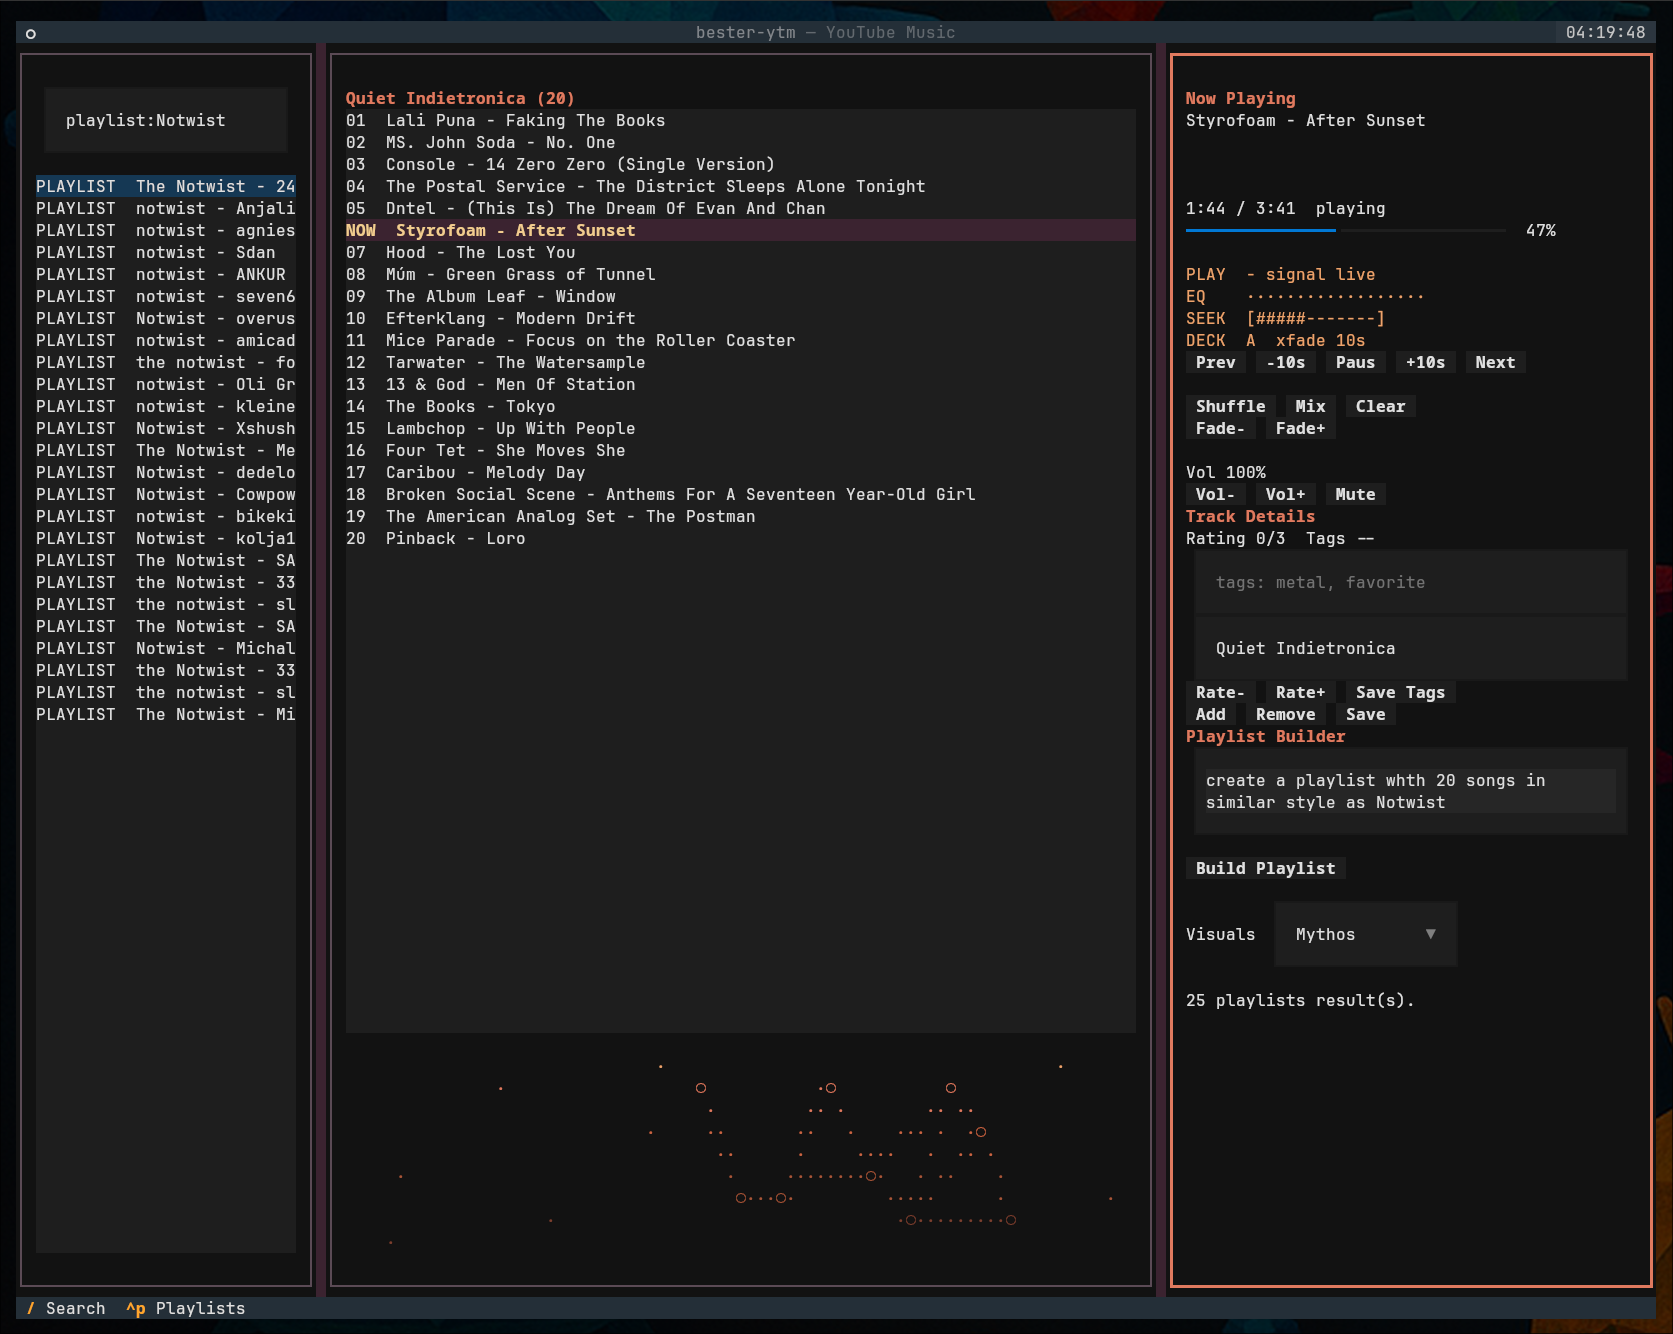
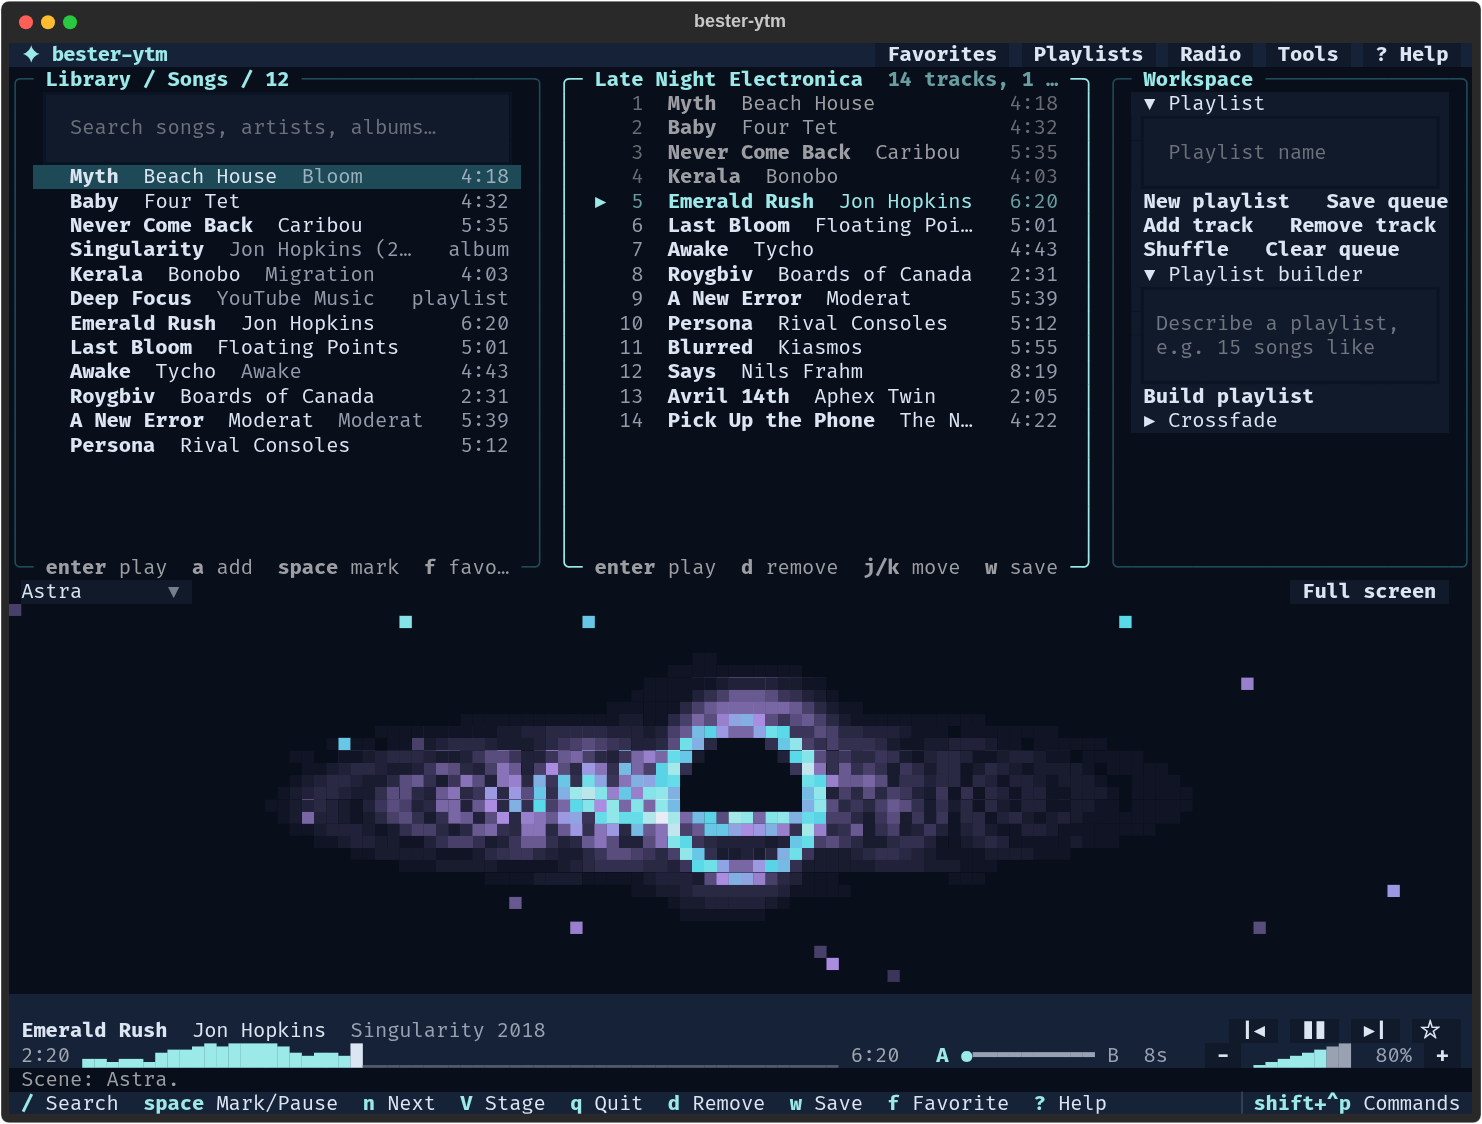
docs: describe the new stage, player deck, and rows
Update usage, configuration, the manual test checklist, README, and the
docs landing page for the four stage scenes, the loudness seek bar, the
crossfader, star and mark glyphs, border hints, and the renamed workspace
buttons. Add an Unreleased changelog section.

The README demo GIF and the docs screenshot are rendered from the app at
120x44 with a song-like loudness signal (880 px wide, 90 frames, 1.9 MB,
down from 3.3 MB).

diff --git a/docs/usage.md b/docs/usage.md
@@ -4,7 +4,8 @@
 
 Launch with `bester-ytm`. Search and browse on the left, arrange the queue
 in the center, and use the workspace on the right for playlists, the builder,
-and DJ controls. The playback bar sits below the full-width visual stage.
+and crossfade settings. The stage fills the width below the panes, and the
+player sits under it. Each pane's border shows its name and its main keys.
 On narrow terminals, `F2` or **Tools** switches between the queue and workspace.
 The top bar opens Favorites, Playlists, Radio, and Help.
 
@@ -17,7 +18,8 @@ it and returns to the previous view.
 Pane-scoped keys act only while their pane has focus: `x`, `Shift+Space`,
 `a`, `A`, and `Enter`-on-results need the results pane; `j`/`k`, `c`, and
 `w` need the queue pane; `s`, `d`, `Space`-as-select, and `Enter`-on-queue
-work from either list pane. The footer always shows which keys are live.
+work from either list pane. The footer shows the main keys for the focused
+pane; the keyboard guide lists every key.
 
 ```text
 /          focus search
@@ -47,15 +49,15 @@ g          add 5 AI-suggested similar tracks to the queue; type digits
 i          build a playlist from the builder prompt (right pane)
 t          toggle transition style (cut / crossfade)
 [ / ]      shorten / lengthen the crossfade (1-15s)
-v          cycle the visualizer (Astra, Mythos, Oracle, Bars, Wave, Pulse, Scope)
-V          expand/restore the visual stage (Shift+v); Esc returns
+v          next stage scene (Astra, Pulsar, Bars, Scope)
+V          full-screen stage (Shift+v; clicking the stage does the same); Esc returns
 F2         open the workspace tools on a narrow terminal
 Left/Right seek -10s/+10s
 ,/.        seek -30s/+30s
 - / = / +  volume down / up (both = and + raise it)
 m          mute/unmute
 f          toggle the focused song's local favorite; otherwise the playing song
-           [fav] marks saved songs; radio favorites resolve the live song
+           ★ marks saved songs; radio favorites resolve the live song
 Ctrl+F     browse favorites (also the Favorites button)
 Ctrl+P     show playlists (local first, then your YouTube library)
 Ctrl+A     show auth status
@@ -126,29 +128,49 @@ rest.
 
 ### Playback and transitions
 
-The current track is marked `NOW`. When a track nears its end and the
-transition style is crossfade (the default, 6 seconds), the next queued
-track is prebuffered on a second silent mpv deck and blended in DJ-style
-with an equal-power fade; set the transition to cut for instant switches.
-The `DECK` line beside the transport shows the active deck and becomes a
-`MIX` meter while two tracks blend. The stage displays an audio-reactive
-scene. Astra draws an accretion disk, photon ring, aurora, and starfield in
-cyan, violet, and gold. It responds to loudness from mpv, not frequency bands.
-During silence, the visual energy fades. Pausing freezes the scene.
+The playing track carries `▶` in the queue, and tracks already played are
+dimmed. When a track nears its end and the transition style is crossfade
+(the default, 6 seconds), the next queued track is prebuffered on a second
+silent mpv deck and blended in DJ-style with an equal-power fade; set the
+transition to cut for instant switches. The crossfader in the player
+(`A ━━━━●━━━━ B`) shows the live deck, and its knob slides to the other
+deck while two tracks blend. A dotted rail means the transition is cut.
 
-Choose an effect from the stage dropdown or press `v`. Press `V` (Shift+v)
-for the immersive stage and `Esc` to return. Playback controls remain visible.
-Open the command palette with `Ctrl+Shift+P` to choose a theme. Clicking the progress bar seeks to that position.
-On slow or remote terminals, lower `ui.visual_fps` or set it to `0` for
-static frames.
+The seek bar draws how loud each stretch of the current track was when it
+played, so the played part shows the shape of the song. Stretches skipped
+by seeking stay flat. Click the bar to seek to that position. A web radio
+stream has no end, so the bar shows its recent loudness instead.
+
+The stage shows an audio-reactive scene in the colors of the active theme:
+
+- **Astra**: a black hole whose accretion disk heats up and spins faster
+  with the music; sudden onsets flare the photon ring.
+- **Pulsar**: a ridgeline plot of recent loudness, drawn like the pulsar
+  plot on the cover of Joy Division's *Unknown Pleasures*. The front ridge
+  moves live; older ridges recede.
+- **Bars**: a loudness skyline with the newest sample on the right.
+- **Scope**: a Lissajous figure on a phosphor screen that swells with
+  loudness and leaves fading trails.
+
+The scenes react to the loudness that mpv reports; they have no frequency
+data. Pausing freezes the scene; with nothing playing, the stage shows a dim
+still.
+
+Choose a scene from the stage dropdown or press `v`. Press `V` (Shift+v) or
+click the stage for full screen, and press `Esc` or click again to return.
+The player stays visible. Open the command palette with `Ctrl+Shift+P` to
+choose a theme; the stage takes its colors from it.
+On slow or remote terminals, lower `ui.visual_fps`, or set it to `0` for
+still frames. At `0` the seek bar shows progress without the loudness shape.
 
 ### Favorites
 
 Press `f` to toggle the highlighted song in results, an expanded album, or
-the queue. Outside those lists, it acts on the playing track. The
-**Favorite playing** button always acts on the current track.
+the queue. Outside those lists, it acts on the playing track. The star
+button in the player always acts on the current track.
 
-Saved tracks show `[fav]` in results, the queue, and Now Playing. Open
+Saved tracks show `★` in results, the queue, and album trees, and the
+player's star fills while a saved track plays. Open
 **Favorites** or press `Ctrl+F` to browse them. `Enter` plays or queues a
 song; `a` queues it; `f` removes it. Removal keeps the cursor on a remaining
 row. Edit the search to `favs:sepultura` to filter by text. `favorites:` and
@@ -210,24 +232,26 @@ absolute path).
 Local playlists are independent of YouTube playlists — useful for collecting
 tracks before creating a real YouTube playlist.
 
-The right-pane `Playlist / Queue` section manages the queue as a named
-playlist. It holds the playlist name field, the New / Save / Add / Remove
-buttons, and the Shuffle / Clear controls (the Mix and Fade- / Fade+
-transition controls are inside the DJ / Crossfade section):
+The workspace's **Playlist** section manages the queue as a named playlist.
+It holds the playlist name field, the **New playlist**, **Save queue**,
+**Add track**, and **Remove track** buttons, and **Shuffle** and
+**Clear queue**. The **Mix style** and **Fade −** / **Fade +** controls are
+in the **Crossfade** section.
 
-- `New` starts a fresh playlist: the queue is cleared (a playing track keeps
-  playing and stays as the first row), the loaded playlist is detached, and
-  the name field is emptied and focused so you can name the new one.
-- `Save` (also `w`) saves the queue exactly as a local playlist under the
-  typed name — falling back to the loaded playlist's title, then
-  `Saved Queue` — so removals and reordering done with `d`/`j`/`k` persist.
-- `Add` adds the selected track — the highlighted queue row, else the
-  highlighted search song, else the playing track — to the local playlist
-  named in the field; without a name it uses the loaded local playlist, or
-  creates `TUI Playlist`.
-- `Remove` removes the selected track (same resolution as `Add`) from the
-  loaded playlist: local playlists are edited on disk, YouTube playlists in
-  your account.
+- **New playlist** starts a fresh playlist: the queue is cleared (a playing
+  track keeps playing and stays as the first row), the loaded playlist is
+  detached, and the name field is emptied and focused so you can name the
+  new one.
+- **Save queue** (also `w`) saves the queue exactly as a local playlist
+  under the typed name, falling back to the loaded playlist's title, then
+  `Saved Queue`, so removals and reordering done with `d`/`j`/`k` persist.
+- **Add track** adds the selected track (the highlighted queue row, else
+  the highlighted search song, else the playing track) to the local
+  playlist named in the field; without a name it uses the loaded local
+  playlist, or creates `TUI Playlist`.
+- **Remove track** removes the selected track (chosen the same way as for
+  **Add track**) from the loaded playlist: local playlists are edited on
+  disk, YouTube playlists in your account.
 
 ## The CLI
 

diff --git a/docs/manual-testing.md b/docs/manual-testing.md
@@ -26,7 +26,9 @@ tests intentionally do not perform.
 ## Playback
 
 - [ ] `uv run bester-ytm play search "Beach House Myth" --seconds 20` starts `mpv`, plays audio, and exits cleanly.
-- [ ] `uv run bester-ytm` opens the player TUI; search, queue, play/pause, skip, favorite toggle (f, [fav] marker, Ctrl+F listing), auth status, and playlist builder views respond to the documented keys.
+- [ ] `uv run bester-ytm` opens the player TUI; search, queue, play/pause, skip, favorite toggle (f, ★ marker, Ctrl+F listing), auth status, and playlist builder views respond to the documented keys.
+- [ ] While a song plays, the seek bar fills with its loudness shape up to the
+      playhead; seeking ahead leaves a flat stretch; clicking the bar seeks.
 - [ ] After `./scripts/download-example-songs.sh`, searching
       `local:examples/music` lists the three example songs, `Enter` plays one
       audibly, and crossfade transitions work between local and YouTube
@@ -38,28 +40,30 @@ tests intentionally do not perform.
 
 - [ ] `F1` opens help while typing; filtering by `favorite` finds favorite keys;
       `F1` closes help and restores input focus.
-- [ ] `V` expands Astra while music plays; `Ctrl+Space` pauses it;
-      resizing preserves the scene; `Esc` restores the workspace.
+- [ ] `V` (or a click on the stage) shows it full screen while music plays;
+      `Ctrl+Space` pauses it; resizing redraws the scene; `Esc` restores the
+      workspace. `v` cycles Astra, Pulsar, Bars, and Scope, and a theme change
+      from `Ctrl+Shift+P` recolors the stage.
 - [ ] At 80x24, `F2` switches to tools; transport and help remain reachable.
 - [ ] Remove a row in Favorites with `f`; the row disappears and the cursor
-      stays in the list. Click Favorite playing and check that it saves the
+      stays in the list. Click the player's star and check that it saves the
       playing song, even when a different row is highlighted.
 
 ## DJ transitions
 
 - [ ] With two or more tracks queued and crossfade active, the second track
-      audibly blends in before the first ends (no silence gap), and the DECK
-      line becomes a `MIX A [######------] B` meter during the blend.
+      audibly blends in before the first ends (no silence gap), and the
+      crossfader knob slides from one deck to the other during the blend.
 - [ ] Pressing `n` during crossfade mode performs a quick audible mix instead
       of a hard cut.
 - [ ] Pressing `t` switches to cut; track changes become instant hard
-      switches and the DECK line shows `cut`.
+      switches and the crossfader shows a dotted rail and `cut`.
 - [ ] `[` and `]` change the fade length, the status line confirms it, and
       the new value appears in `~/.config/bester-ytm/config.toml` and in
       `uv run bester-ytm config show`.
 - [ ] `uv run bester-ytm play playlist <id> --transition crossfade --fade 8`
       blends between tracks from the CLI.
-- [ ] Quit the TUI mid-mix (`q` while the MIX meter is visible), then run
+- [ ] Quit the TUI mid-mix (`q` while the crossfader knob is between A and B), then run
       `pgrep -a mpv`: no orphaned mpv processes remain and no
       `bester-ytm-mpv-*.sock` files are left in the temp directory.
 - [ ] Pause during a mix snaps cleanly to the incoming track; resume plays at

diff --git a/README.md b/README.md
@@ -13,19 +13,25 @@ YouTube Music account.
 
 ![bester-ytm TUI demo](docs/assets/demo.gif)
 
-- **Terminal player** — a Textual TUI with search, album browsing, an
+- **Terminal player**: a Textual TUI with search, album browsing, an
   editable queue, local playlists, favorites, local audio files, web
-  radio with live song names, searchable keyboard help, and the Astra visual
-  stage. Press `V` for the immersive view, `Ctrl+F` for favorites, or `F1` for help.
-- **DJ transitions** — the next track is prebuffered on a second silent
-  `mpv` deck and blended in with an equal-power crossfade.
-- **Playlist builder** — turn seed songs or a prose brief ("15 songs in the
+  radio with live song names, and searchable keyboard help. Press `Ctrl+F`
+  for favorites or `F1` for help.
+- **Audio-reactive stage**: a black hole, a pulsar plot in the style of Joy
+  Division's *Unknown Pleasures*, a loudness skyline, or an oscilloscope,
+  drawn at two pixels per character cell in the colors of your theme. Press
+  `V` for full screen.
+- **DJ transitions**: the next track is prebuffered on a second silent
+  `mpv` deck and blended in with an equal-power crossfade, shown on a
+  crossfader in the player. The seek bar draws how loud each part of the
+  track was as it played.
+- **Playlist builder**: turn seed songs or a prose brief ("15 songs in the
   style of Blind Guardian, save as powermetal-15") into a reviewed plan,
   then create the real playlist in your account.
-- **AI, your way** — briefs and similar-track suggestions run through the
+- **AI, your way**: briefs and similar-track suggestions run through the
   Codex CLI, the Claude Code CLI, any OpenAI-compatible endpoint (OpenRouter,
   Ollama, vLLM), the Anthropic API, or a fully offline heuristic.
-- **Local-first** — credentials, plans, playlists, and settings live under
+- **Local-first**: credentials, plans, playlists, and settings live under
   your home directory; nothing leaves your machine except requests to
   YouTube Music and the AI provider you configure.
 

diff --git a/docs/index.md b/docs/index.md
@@ -9,18 +9,23 @@ YouTube Music account.
 
 ## What it does
 
-- **Terminal player** — a Textual TUI with search, album browsing, an
-  editable queue, local playlists, favorites, local audio files, web
-  radio with live song names, and audio-reactive visuals.
-- **DJ transitions** — the next track is prebuffered on a second silent
-  `mpv` deck and blended in with an equal-power crossfade.
-- **Playlist builder** — turn seed songs or a prose brief ("15 songs in the
+- **Terminal player**: a Textual TUI with search, album browsing, an
+  editable queue, local playlists, favorites, local audio files, and web
+  radio with live song names.
+- **Audio-reactive stage**: a black hole, a pulsar plot in the style of Joy
+  Division's *Unknown Pleasures*, a loudness skyline, or an oscilloscope,
+  drawn at two pixels per character cell in the colors of your theme.
+- **DJ transitions**: the next track is prebuffered on a second silent
+  `mpv` deck and blended in with an equal-power crossfade, shown on a
+  crossfader in the player. The seek bar draws how loud each part of the
+  track was as it played.
+- **Playlist builder**: turn seed songs or a prose brief ("15 songs in the
   style of Blind Guardian, save as powermetal-15") into a reviewed plan, then
   create the real playlist in your account.
-- **AI, your way** — playlist briefs and similar-track suggestions can run
+- **AI, your way**: playlist briefs and similar-track suggestions can run
   through the Codex CLI, the Claude Code CLI, any OpenAI-compatible endpoint
   (OpenRouter, Ollama, vLLM), the Anthropic API, or a fully offline heuristic.
-- **Local-first** — credentials, plans, playlists, and settings live under
+- **Local-first**: credentials, plans, playlists, and settings live under
   your home directory; nothing is sent anywhere except YouTube Music and the
   AI provider you configure.
 

diff --git a/docs/configuration.md b/docs/configuration.md
@@ -14,7 +14,7 @@ fade_seconds = 6.0         # crossfade length, 1-15
 volume = 100               # startup volume, 0-100
 
 [ui]
-visualizer = "astra"       # astra | mythos | oracle | bars | wave | pulse | scope
+visualizer = "astra"       # astra | pulsar | bars | scope
 theme = "astra"            # astra | ember | any built-in Textual theme
 visual_fps = 20            # animation rate, 0 (static frame) to 30
 left_width = 30            # example; unset by default (see below)
@@ -34,15 +34,18 @@ fip = "https://icecast.radiofrance.fr/fip-midfi.mp3"   # example; unset by defau
   on a second silent mpv deck and blended in with an equal-power fade;
   `"cut"` switches instantly.
 - `visualizer`, `theme`, `left_width`, `right_width`: written automatically
-  when you change the effect, pick a theme from the command palette
+  when you change the stage scene, pick a theme from the command palette
   (`Ctrl+Shift+P`), or drag the pane splitters in the TUI (mouse support
   required; inside tmux enable `set -g mouse on`).
 - `left_width` / `right_width`: pane widths in terminal cells, valid range
   10-400 (values outside it raise a `ConfigError` at startup; the values
   above are examples). When unset, the panes use the stylesheet's fractional widths.
+- `visualizer`: the stage scene. A name that is not one of the four scenes
+  starts the stage on Astra.
 - `visual_fps`: how often the stage redraws and samples live
   loudness. Lower it (or set `0` to freeze the stage) on slow or remote
-  terminals. Beat tracking becomes less accurate below about 15 frames per
+  terminals. At `0` the seek bar shows progress without the loudness shape.
+  Beat tracking becomes less accurate below about 15 frames per
   second. This setting is read at startup.
   Capped at 30: values above 30 (or below 0) are rejected with a
   `ConfigError` at startup.

diff --git a/CHANGELOG.md b/CHANGELOG.md
@@ -7,6 +7,37 @@ and this project adheres to [Semantic Versioning](https://semver.org/spec/v2.0.0
 
 ## [Unreleased]
 
+### Added
+
+- Pulsar, a stage scene that plots recent loudness as a ridgeline in the
+  style of the pulsar plot on Joy Division's *Unknown Pleasures*.
+- A seek bar that draws how loud each stretch of the playing track was, so
+  the played part shows the shape of the song. Click it to seek.
+- A crossfader in the player that shows the live deck and slides with each
+  blend, and a volume wedge that mutes on click and turns with the scroll
+  wheel.
+- Tooltips on the player and stage controls, and a hint in an empty queue.
+
+### Changed
+
+- The stage draws on a half-block pixel canvas (two pixels per cell) in the
+  colors of the active theme and no longer builds markup for each frame; its
+  CPU time per full-screen frame drops by about two thirds. Astra is now a
+  black hole with a Doppler-bright accretion disk, photon ring, and lensed
+  halo.
+- Mythos, Oracle, Wave, and Pulse are retired; a saved choice of one of them
+  opens on Astra.
+- Pane titles and key hints sit in the pane borders, the stage heading takes
+  one row, and the player takes two rows with symbol transport buttons.
+  Clicking the stage toggles full screen.
+- Result and queue rows fit on one line with a right-aligned duration or
+  kind. `★` marks favorites, `●` marked results, and `▶` the playing track,
+  replacing `[fav]`, `* `, and `NOW`.
+- Workspace buttons name their action: New playlist, Save queue, Add track,
+  Remove track, Clear queue.
+- The footer shows fewer keys so it fits at 120 columns; `x`, `s`, and `c`
+  remain listed in the keyboard guide.
+
 ## [1.4.0] - 2026-09-09
 
 ### Added
